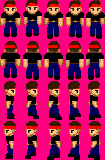
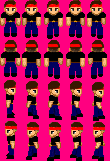
Dodane grafiki postaci z bronią, poprawiona grafika gracza bez broni, dodanie funkcji wykrywającej zderzenie się Zombie ze ścianą (ma jednak jakiś błąd), w map i board zakomentowane są z powodu błędu fukcje zwracające wektor Enemy*

diff --git a/Engine/Zombie.cpp b/Engine/Zombie.cpp
@@ -10,7 +10,7 @@ bool Zombie::IsAlive()
 	else return false;
 }
 
-void Zombie::Movement(float dt, const Object& playerObject)
+void Zombie::Movement(float dt, const Object& playerObject, std::vector<Obstacle> obstacles)
 {
 	float playerX = playerObject.pos.x;
 	float playerY = playerObject.pos.y;
@@ -115,15 +115,16 @@ void Zombie::Movement(float dt, const Object& playerObject)
 			iCurrentSeqence = Sequences::StandDown;
 		}
 	}
+	CheckCollisions(obstacles);
 	object.hitbox.DoActualization(object.pos, object.width, object.height);
 	Update(dt);
 
 }
 
-void Zombie::CheckCollisions(std::vector<Object> obstacles)
+void Zombie::CheckCollisions(std::vector<Obstacle> obstacles)
 {
 	for (auto obs : obstacles) {
-		this->object.IsOverLapping(obs, aimsRight, aimsLeft, aimsDown, aimsUp);
+		this->object.IsOverLapping(obs.getObject(), aimsRight, aimsLeft, aimsDown, aimsUp);
 	}
 }
 

diff --git a/Engine/Enemy.h b/Engine/Enemy.h
@@ -1,5 +1,6 @@
 #pragma once
 #include "Object.h"
+#include "Obstacle.h"
 #include "Graphics.h"
 #include <list>
 #include <vector>
@@ -22,12 +23,12 @@ protected:
 public:
 	float distance;
 	Enemy(Object object, float health, float probability, bool isAlive, int points);
-	virtual void CheckCollisions(std::vector<Object> obstacles) = 0;
+	virtual void CheckCollisions(std::vector<Obstacle> obstacles) = 0;
 	virtual void DrawEnemy(Graphics& gtx) = 0;
 	virtual void Attack() = 0;
 	virtual void ChangeHealth(float changeHP) = 0;
 	virtual bool IsAlive() = 0;
-	virtual void Movement(float dt, const Object& playerObject) = 0;
+	virtual void Movement(float dt, const Object& playerObject, std::vector<Obstacle> obstacles) = 0;
 	virtual void Draw(Graphics& gfx) = 0;
 	virtual void Update(float dt) = 0;
 	virtual void CalculateDistance(const Vec2D& pos)=0;

diff --git a/Engine/Zombie.h b/Engine/Zombie.h
@@ -22,12 +22,12 @@ public:
 	//Zombie();
 	Zombie(Object object, float health, float probability, bool isAlive, int points);
 	void Draw(Graphics& gfx)override;
-	void CheckCollisions(std::vector<Object> obstacles)override;
+	void CheckCollisions(std::vector<Obstacle> obstacles)override;
 	void DrawEnemy(Graphics & gtx)override;
 	void Attack()override;
 	void ChangeHealth(float changeHP)override;
 	bool IsAlive()override;
-	void Movement(float dt,const Object & playerObject)override;
+	void Movement(float dt,const Object & playerObject, std::vector<Obstacle> obstacles)override;
 	void Update(float dt)override;
 	Object Getobject()const override;
 	void CalculateDistance(const Vec2D& pos)override;

diff --git a/Engine/Game.cpp b/Engine/Game.cpp
@@ -46,7 +46,7 @@ void Game::Go()
 void Game::UpdateModel()
 {
     float clock = ft.Mark();
-    for (auto opponent : enemy) {opponent->Movement(clock, player.getObject());}
+    for (auto opponent : enemy) {opponent->Movement(clock, player.getObject(), board.GetObstacles());}
     if (wnd.kbd.KeyIsPressed(VK_UP)) { player.Movement(false, false, true, false, clock,board.GetObstacles()); }
     if (wnd.kbd.KeyIsPressed(VK_DOWN)) { player.Movement(false, false, false, true, clock, board.GetObstacles()); }
     if (wnd.kbd.KeyIsPressed(VK_RIGHT)) { player.Movement(true, false, false, false, clock, board.GetObstacles()); }

diff --git a/Engine/Map.h b/Engine/Map.h
@@ -1,5 +1,6 @@
 #pragma once
 #include "Obstacle.h"
+#include "Enemy.h"
 #include "Crate.h"
 #include "vector"
 #include "Surface.h"
@@ -10,6 +11,6 @@ public:
 	virtual void DrawMap(Graphics& gfx)=0;
 	virtual void InitMap()=0;
 	virtual std::vector<Obstacle> GetObstacles()=0;
-	
+	//virtual std::vector<Enemy*> GetEnemies() = 0;
 };
 

diff --git a/Engine/Player.h b/Engine/Player.h
@@ -34,7 +34,7 @@ class Player
 	Object object;
 	Sequences iCurrentSeqence = Sequences::StandDown;
 	std::vector<Animation>animations;
-	Surface surface = Surface("player.png", 98, 156);
+	Surface surface = Surface("player.png", 110, 161);
 	std::vector<Vec2D> canBeHit;
 	Weapon * weapon = nullptr;
 	public:

diff --git a/Engine/Board.cpp b/Engine/Board.cpp
@@ -18,6 +18,9 @@ std::vector<Obstacle> Board::GetObstacles()
 	return map->GetObstacles();
 }
 
-
+//std::vector<Enemy*> Board::GetEnemies()
+//{
+//	return map->GetEnemies();
+//}
 
 

diff --git a/Engine/Board.h b/Engine/Board.h
@@ -22,5 +22,6 @@ public:
 	void InitBoard();
 	void DrawBoard(Graphics & gfx);
 	std::vector<Obstacle> GetObstacles();
+	//std::vector<Enemy*> GetEnemies();
 	
 };
